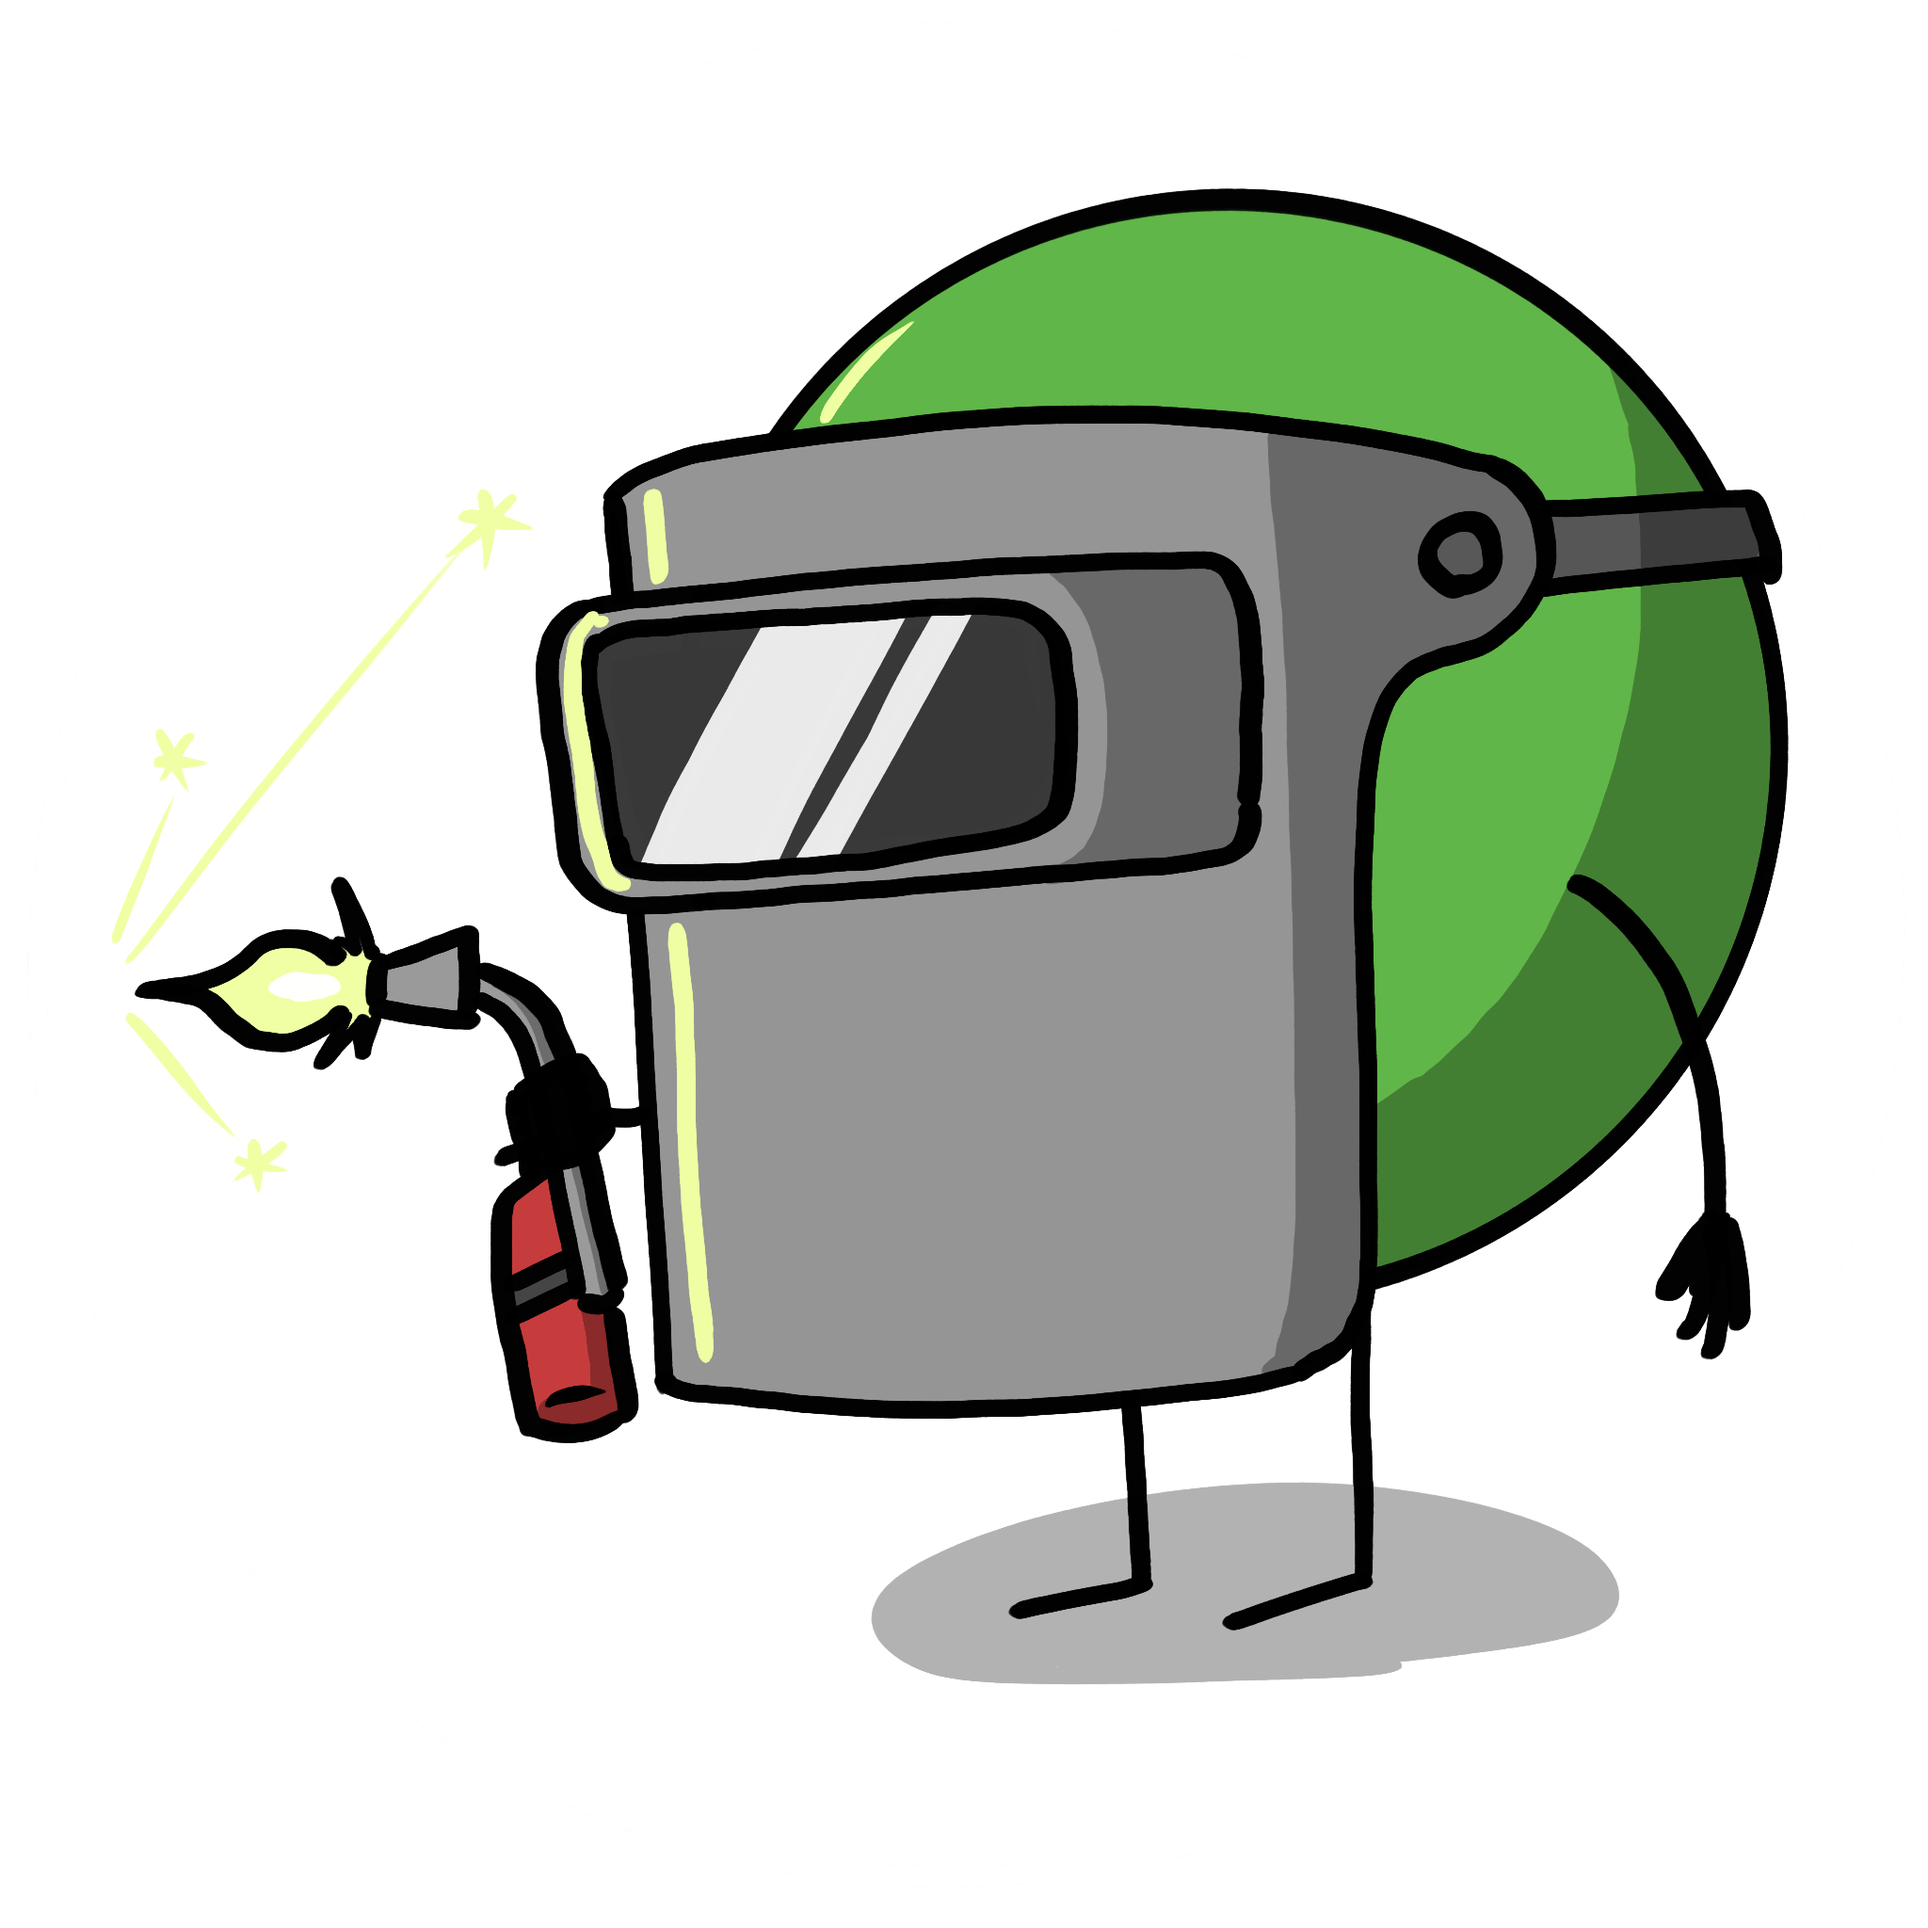
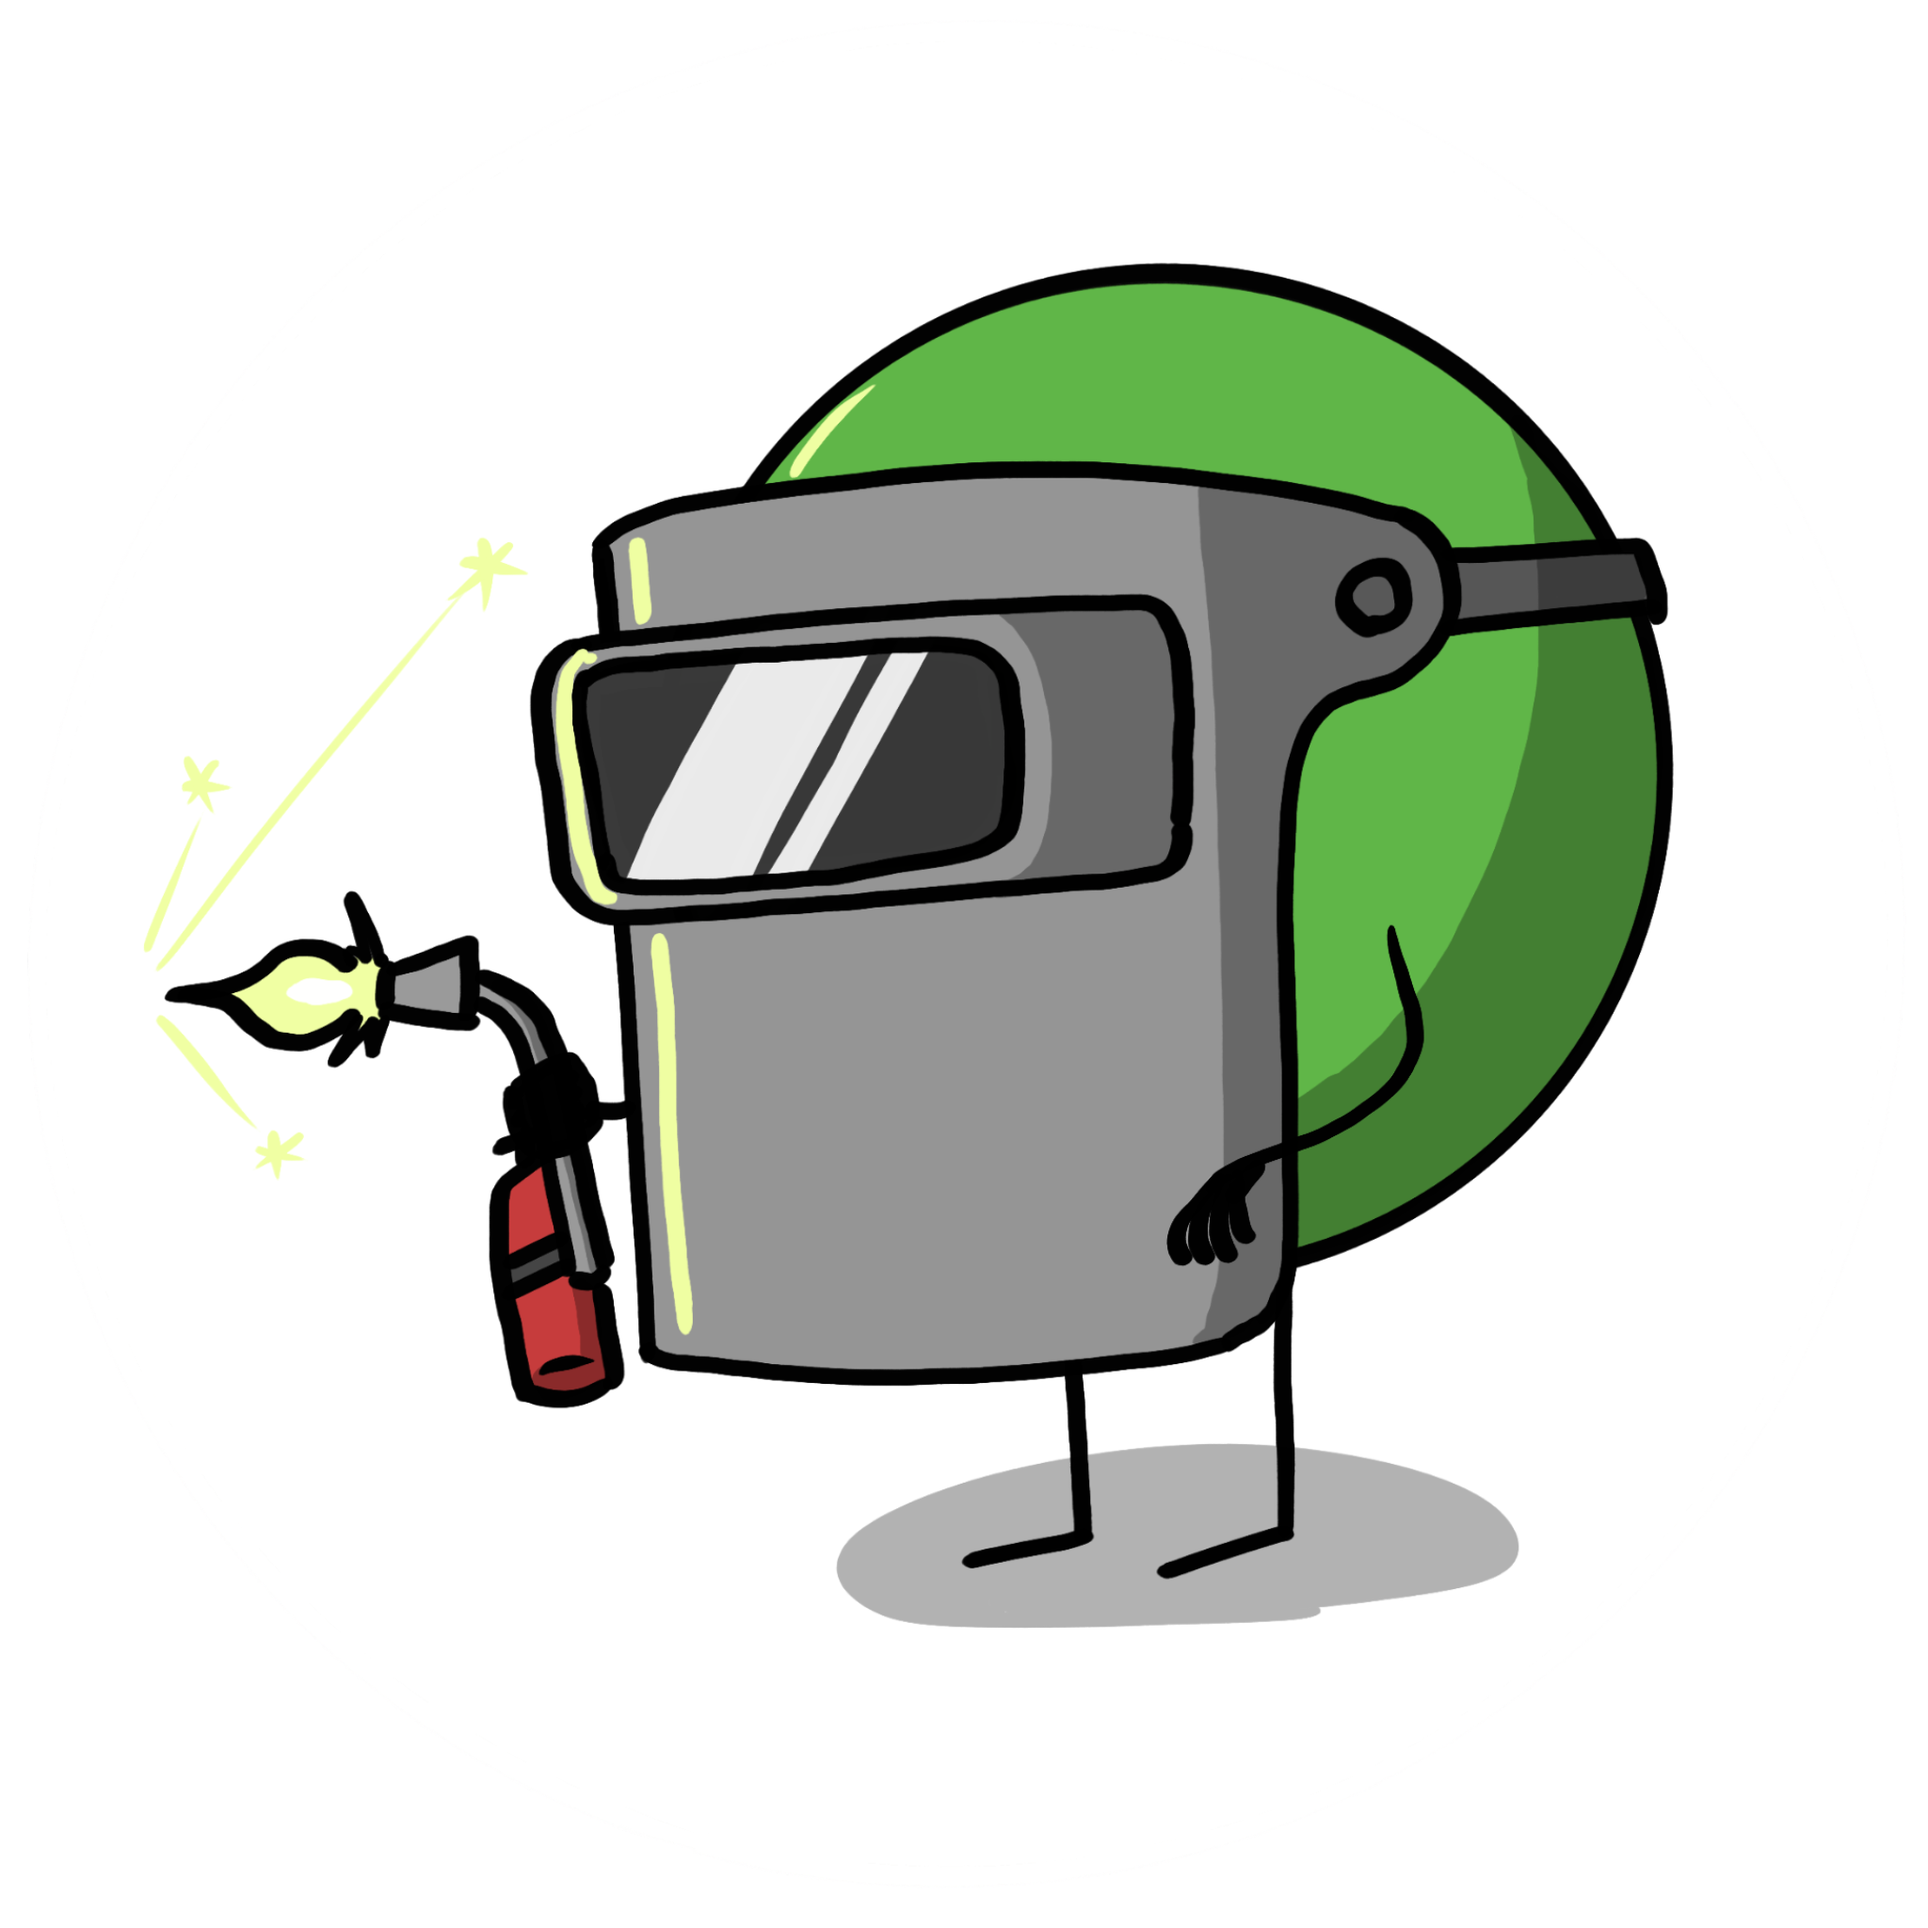
Add more under construction images & adjust component logic

Changed region(s): [[0.0625, 0.0938, 0.9375, 0.875]]

diff --git a/src/components/UnderConstruction.tsx b/src/components/UnderConstruction.tsx
@@ -2,14 +2,10 @@ import { useMemo } from 'react'
 import Box from '@mui/material/Box'
 import Typography from '@mui/material/Typography'
 
-const images = [
-  'green_man_hammer.png',
-  'green_man_mopping.png',
-  'green_man_scientist.png',
-  'green_man_shrug.png',
-  'green_man_welder.png',
-  'green_man_wrench.png',
-]
+const imageModules = import.meta.glob('/public/images/under_construction/*.png')
+const images = Object.keys(imageModules).map((path) =>
+  path.replace('/public/images/under_construction', '')
+)
 
 function UnderConstruction() {
   const randomImage = useMemo(() => {
